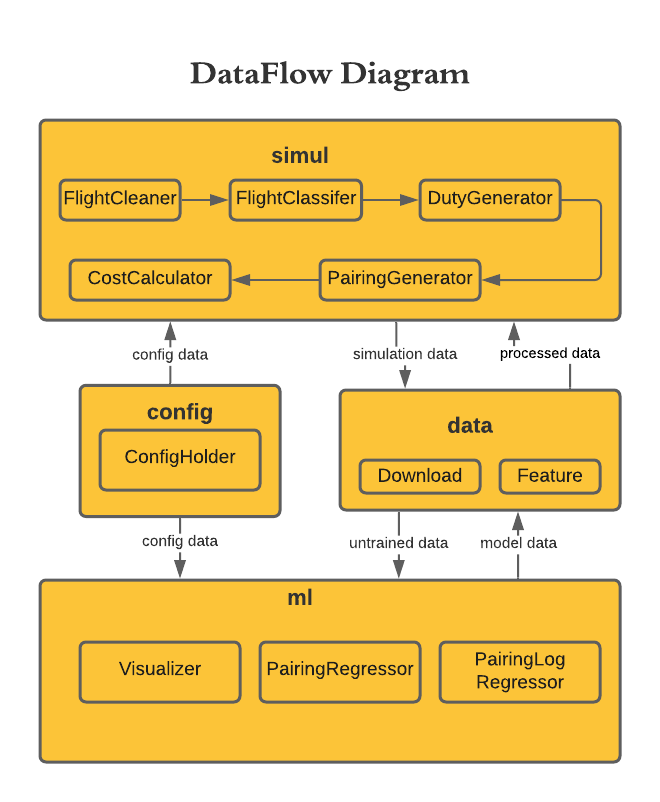
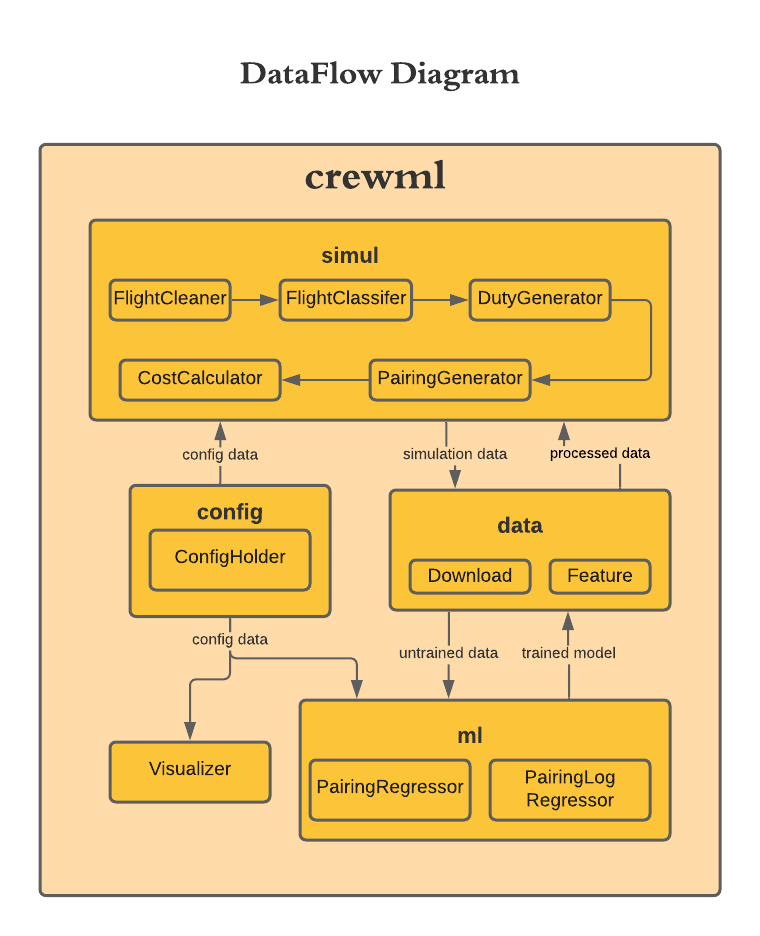
modules refactored

diff --git a/simul_main.py b/simul_main.py
@@ -23,11 +23,10 @@ LIABILITY, WHETHER IN AN ACTION OF CONTRACT, TORT OR OTHERWISE, ARISING FROM,
 OUT OF OR IN CONNECTION WITH THE SOFTWARE OR THE USE OR OTHER DEALINGS IN THE
 SOFTWARE.
 '''
-import sys,os
 import traceback
 from simul.pairing import flclean as fl
 from config import config
-from simul.pairing import flclassify 
+from simul.pairing import flclassify
 from simul.pairing import dutygen as dg
 from simul.pairing import pairinggen as pg
 from simul.pairing import costcal as cc
@@ -45,75 +44,84 @@ def main():
     '''
     try:
         logger = logging.getLogger(__name__)
-    
-    
+
         logger.info("Starting main")
-        
-        data_path=os.path.dirname(__file__)
-        
-        ch=config.ConfigHolder(st.RESOURCE_DIR+"pairing_config.ini")
-        '''
-        Create FlightCleaner object, load the flights, use the timezone to convert the local departure and arrival time to
-        UTC time
-        '''
-        raw_input_file=ch.getValue("raw_input_file")
-        timezone_file=ch.getValue("timezone_file")
-        clean_output=ch.getValue("clean_output_file")
-        classify_files=ch.getValue("classify_output_files").split(",")
-        dutygen_files=ch.getValue("dutygen_files").split(",")
-        
-        elements=ch.getValue("elements")
-        elements=elements.split(",")
-        column_name=ch.getValue("column_name")
-        airline_code=ch.getValue("airline_code")
-        
+
+        ch = config.ConfigHolder(st.RESOURCE_DIR+"pairing_config.ini")
+
+        # Create FlightCleaner object, load the flights, use the timezone
+        # to convert the local departure and arrival time to
+        # UTC time
+        raw_input_file = ch.getValue("raw_input_file")
+        timezone_file = ch.getValue("timezone_file")
+        clean_output = ch.getValue("clean_output_file")
+        dutygen_files = ch.getValue("dutygen_files").split(",")
+
+        elements = ch.getValue("elements")
+        elements = elements.split(",")
+        column_name = ch.getValue("column_name")
+        airline_code = ch.getValue("airline_code")
 
         logger.info("Creating FlightCleaner object")
-        fc=fl.FlightCleaner(raw_input_file,timezone_file,clean_output,elements,column_name,airline_code) 
+        fc = fl.FlightCleaner(raw_input_file,
+                              timezone_file,
+                              clean_output,
+                              elements,
+                              column_name,
+                              airline_code)
         logger.info("Starting FlightCleaner process to clean the flight data")
         fc.process()
         logger.info("Finished FlightCleaner process to clean the flight data")
-        
-        dl_fa_bases=ch.getValue("dl_fa_bases")
-        dl_fa_non_bases=ch.getValue("dl_fa_non_bases")
-        classify_output_files=ch.getValue("classify_output_files")
+
+        dl_fa_bases = ch.getValue("dl_fa_bases")
+        dl_fa_non_bases = ch.getValue("dl_fa_non_bases")
+        classify_output_files = ch.getValue("classify_output_files")
         logger.info("Creating FlightClassifer object")
-        fc=flclassify.FlightClassifer(dl_fa_bases,dl_fa_non_bases,clean_output, classify_output_files)
+        fc = flclassify.FlightClassifer(
+            dl_fa_bases, dl_fa_non_bases, clean_output, classify_output_files)
         logger.info("Starting FlightClassifer process to classify the flights")
         fc.process()
         logger.info("Finished FlightClassifer process to classify the flights")
-        
+
         logger.info("Creating DutyGenerator object")
-        d=dg.DutyGenerator(dutygen_files)
-        logger.info("Starting DutyGenerator process to create Duties")        
+        d = dg.DutyGenerator(dutygen_files)
+        logger.info("Starting DutyGenerator process to create Duties")
         d.process()
         logger.info("Finished DutyGenerator process to create Duties")
-        
-        
-        pairing_gen_output_file=ch.getValue("pairing_gen_output_file")
-        pairing_gen_missing_files=ch.getValue("pairing_gen_missing_files").split(",")
+
+        pairing_gen_output_file = ch.getValue("pairing_gen_output_file")
+        pairing_gen_missing_files = ch.getValue(
+            "pairing_gen_missing_files").split(",")
         logger.info("Creating PairingGenerator object")
-        pgen=pg.PairingGenerator(dutygen_files[2],pairing_gen_missing_files,pairing_gen_output_file)
+        pgen = pg.PairingGenerator(
+            dutygen_files[2],
+            pairing_gen_missing_files,
+            pairing_gen_output_file)
         logger.info("Starting PairingGenerator process to create Pairings")
         pgen.process()
         logger.info("Finished PairingGenerator process to create Pairings")
-        
-        cost_cal_input_file=ch.getValue("cost_cal_input_file")
-        cost_cal_output_file=ch.getValue("cost_cal_output_file")
-        logger.info("Creating CostCalculator object")        
-        costcal=cc.CostCalculator(cost_cal_input_file,cost_cal_output_file,dl_fa_bases)
-        logger.info("Starting CostCalculator process to create cost for each fligh in the Pairings")        
+
+        cost_cal_input_file = ch.getValue("cost_cal_input_file")
+        cost_cal_output_file = ch.getValue("cost_cal_output_file")
+        logger.info("Creating CostCalculator object")
+        costcal = cc.CostCalculator(
+            cost_cal_input_file, cost_cal_output_file, dl_fa_bases)
+        logger.info(
+            "Starting CostCalculator process to create cost for each fligh \
+            in the Pairings")
         costcal.process()
-        logger.info("Finished CostCalculator process to create cost for each fligh in the Pairings")  
-        
+        logger.info(
+            "Finished CostCalculator process to create cost for \
+                each fligh in the Pairings")
+
         logger.info("Finished main")
-    except Exception as e: 
+    except Exception as e:
         logger.error(traceback.format_exc())
 
-    
+
 if __name__ == '__main__':
     import logging.config
-    logging.config.fileConfig(st.LOG_DIR+'logging.ini',disable_existing_loggers=False)
+    logging.config.fileConfig(st.LOG_DIR+'logging.ini',
+                              disable_existing_loggers=False)
 
     main()
-

diff --git a/test.py b/test.py
@@ -1,5 +1,5 @@
 import crewml.data.feature as fet
-import crewml.ml.visual.visualizer as vis
+import crewml.visual.visualizer as vis
 
 import itertools
 

diff --git a/README.md b/README.md
@@ -40,10 +40,15 @@ data we generated the Pairing and used it to create the ML models.
     * simulation
         * pairing            
     * ml
+        * visualizer
+        * prreg
+        * prlogreg
     * config
         * resources
     * log
     * data
+        * download
+        * feature
     * docs
 
 
@@ -66,6 +71,9 @@ CostCalculator – Calculates cost associated with each pairing.
 
 ## ml package
 Following are the important modules of ml package:
+visualizer - Contains various classes to plot graphs using seaborn
+prlogreg - Pairing logistic Regression model
+prreg - Pairing Regression model
 
 ## config package
 ConfigHolder – Manges config parameters used by simulation and ml packages
@@ -73,7 +81,9 @@ ConfigHolder – Manges config parameters used by simulation and ml packages
 log – contains log files
 
 data – contains *.csv data used by the simulation and ml packages
-
+download - A class that helps to download flight data from Amazon 
+S3 and validates data with signature defined in the config file. 
+feature - This class contains the data downloaded from S3.
 
 ## Pairing Level Rules
 * Pairing must start and end with same crew base.
